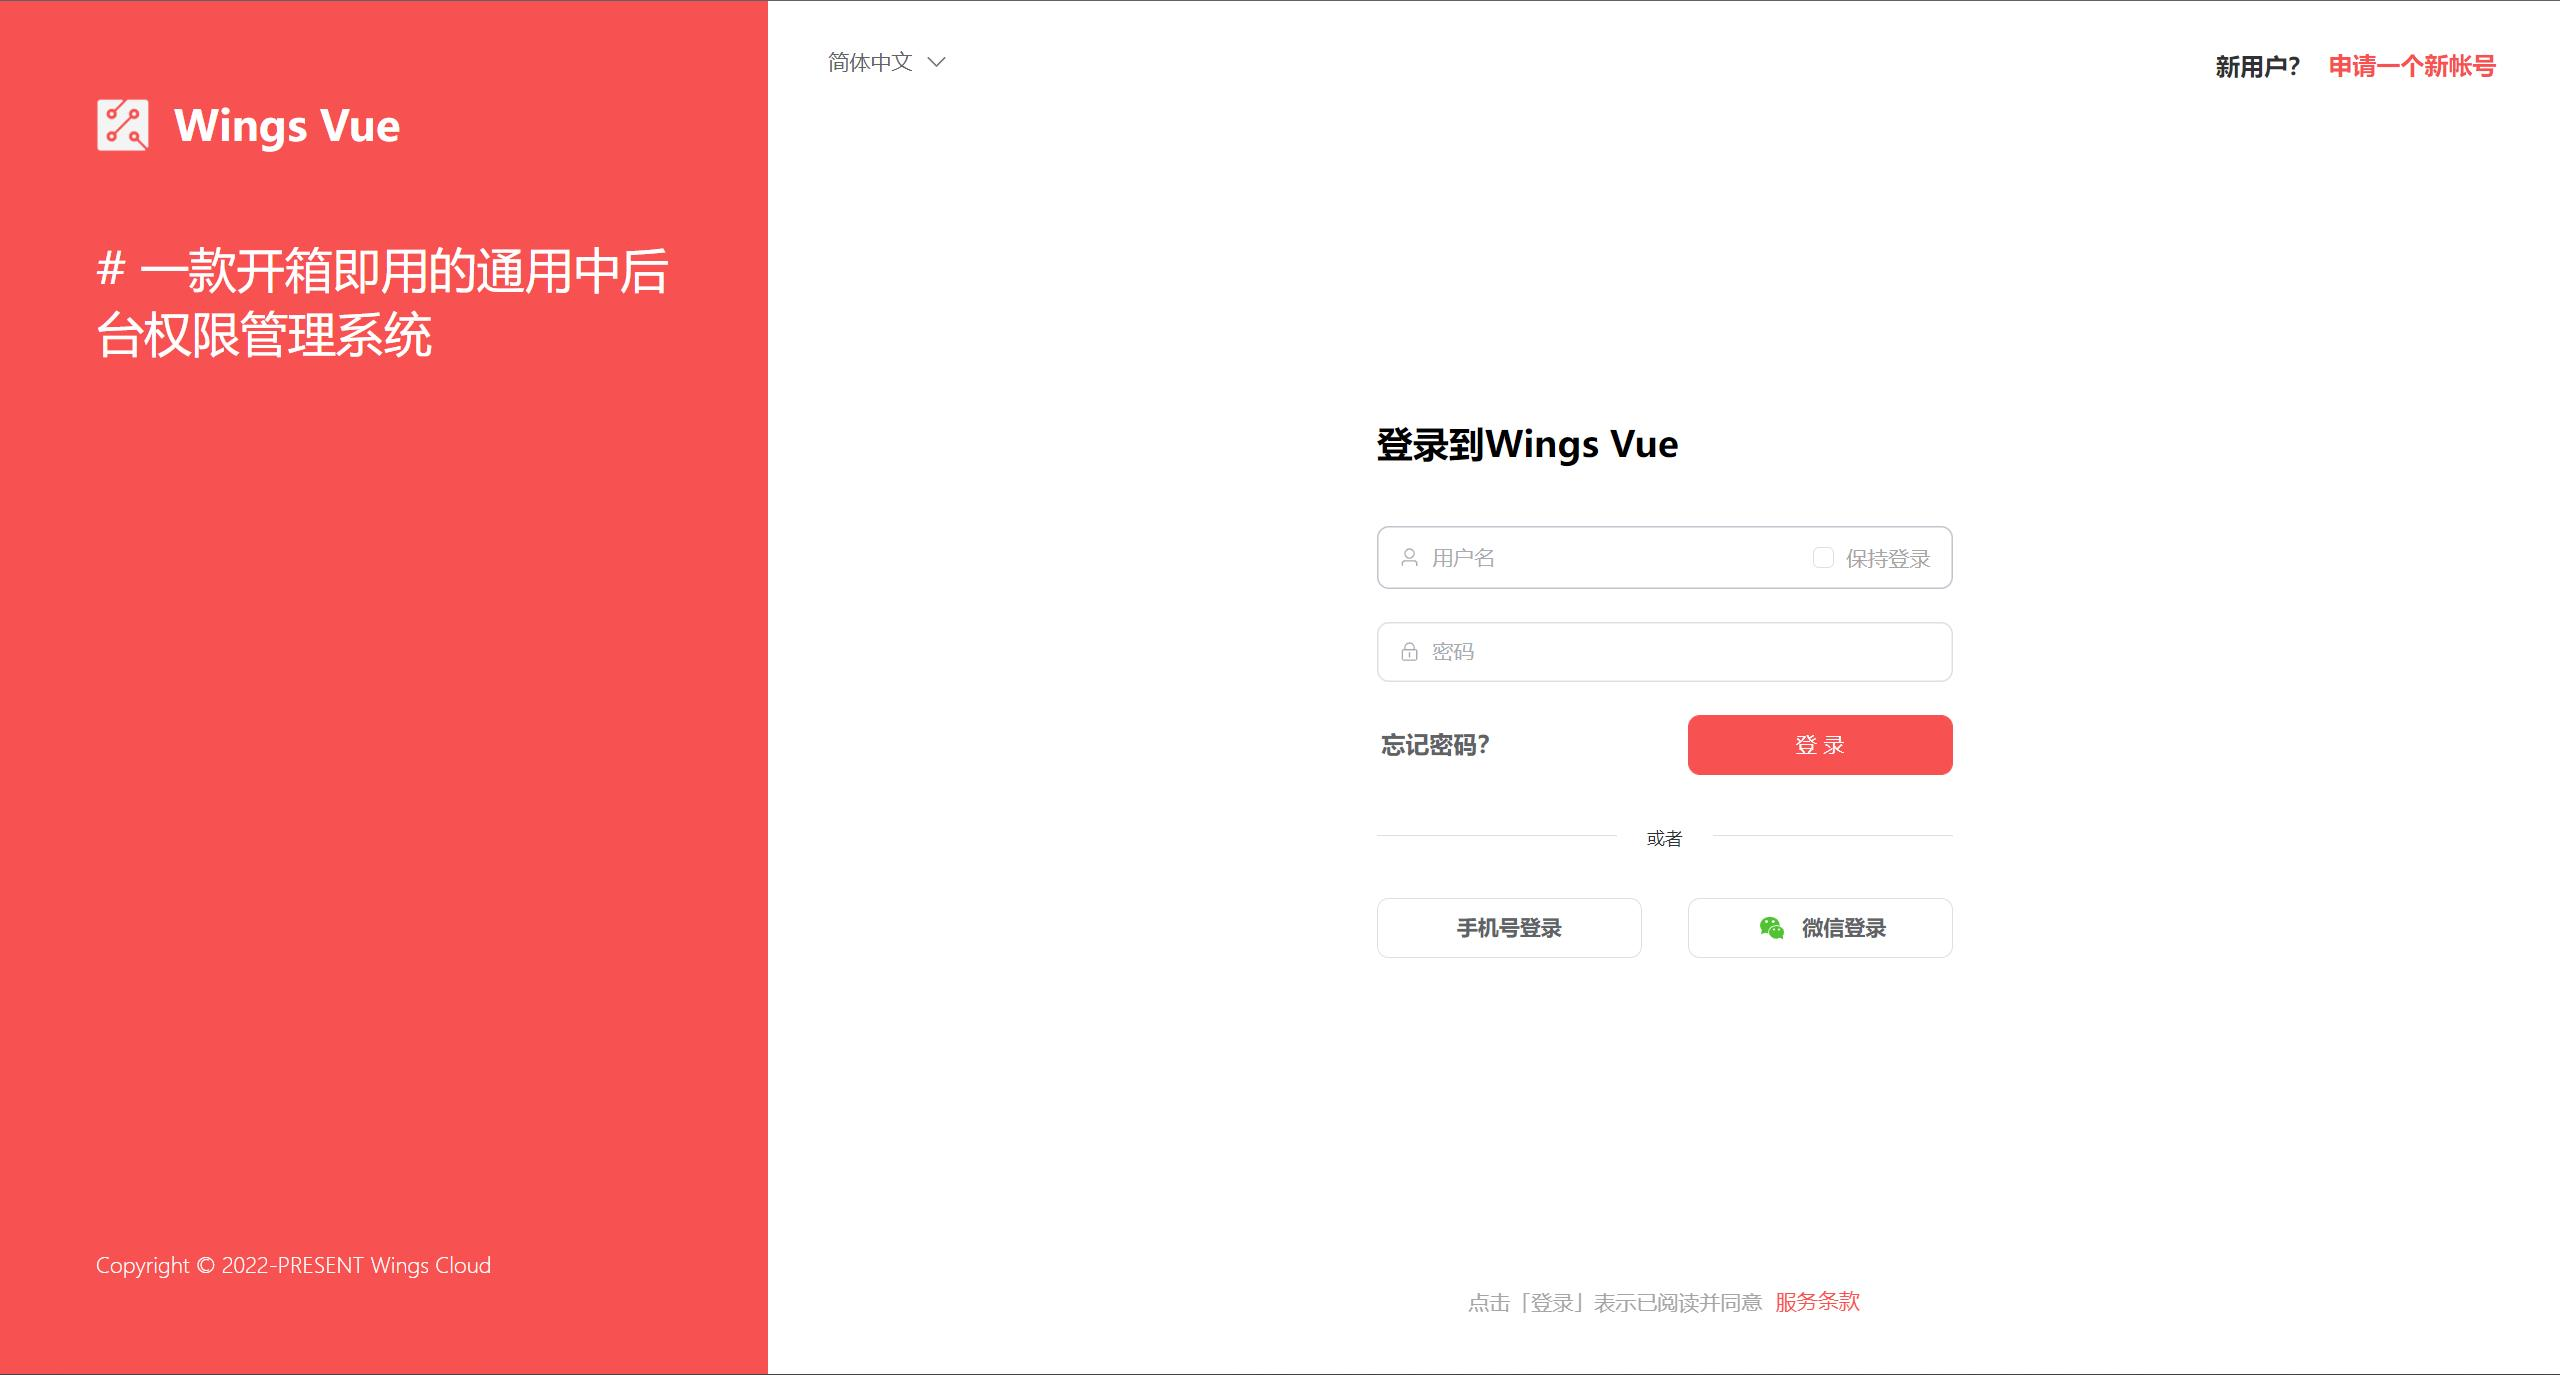
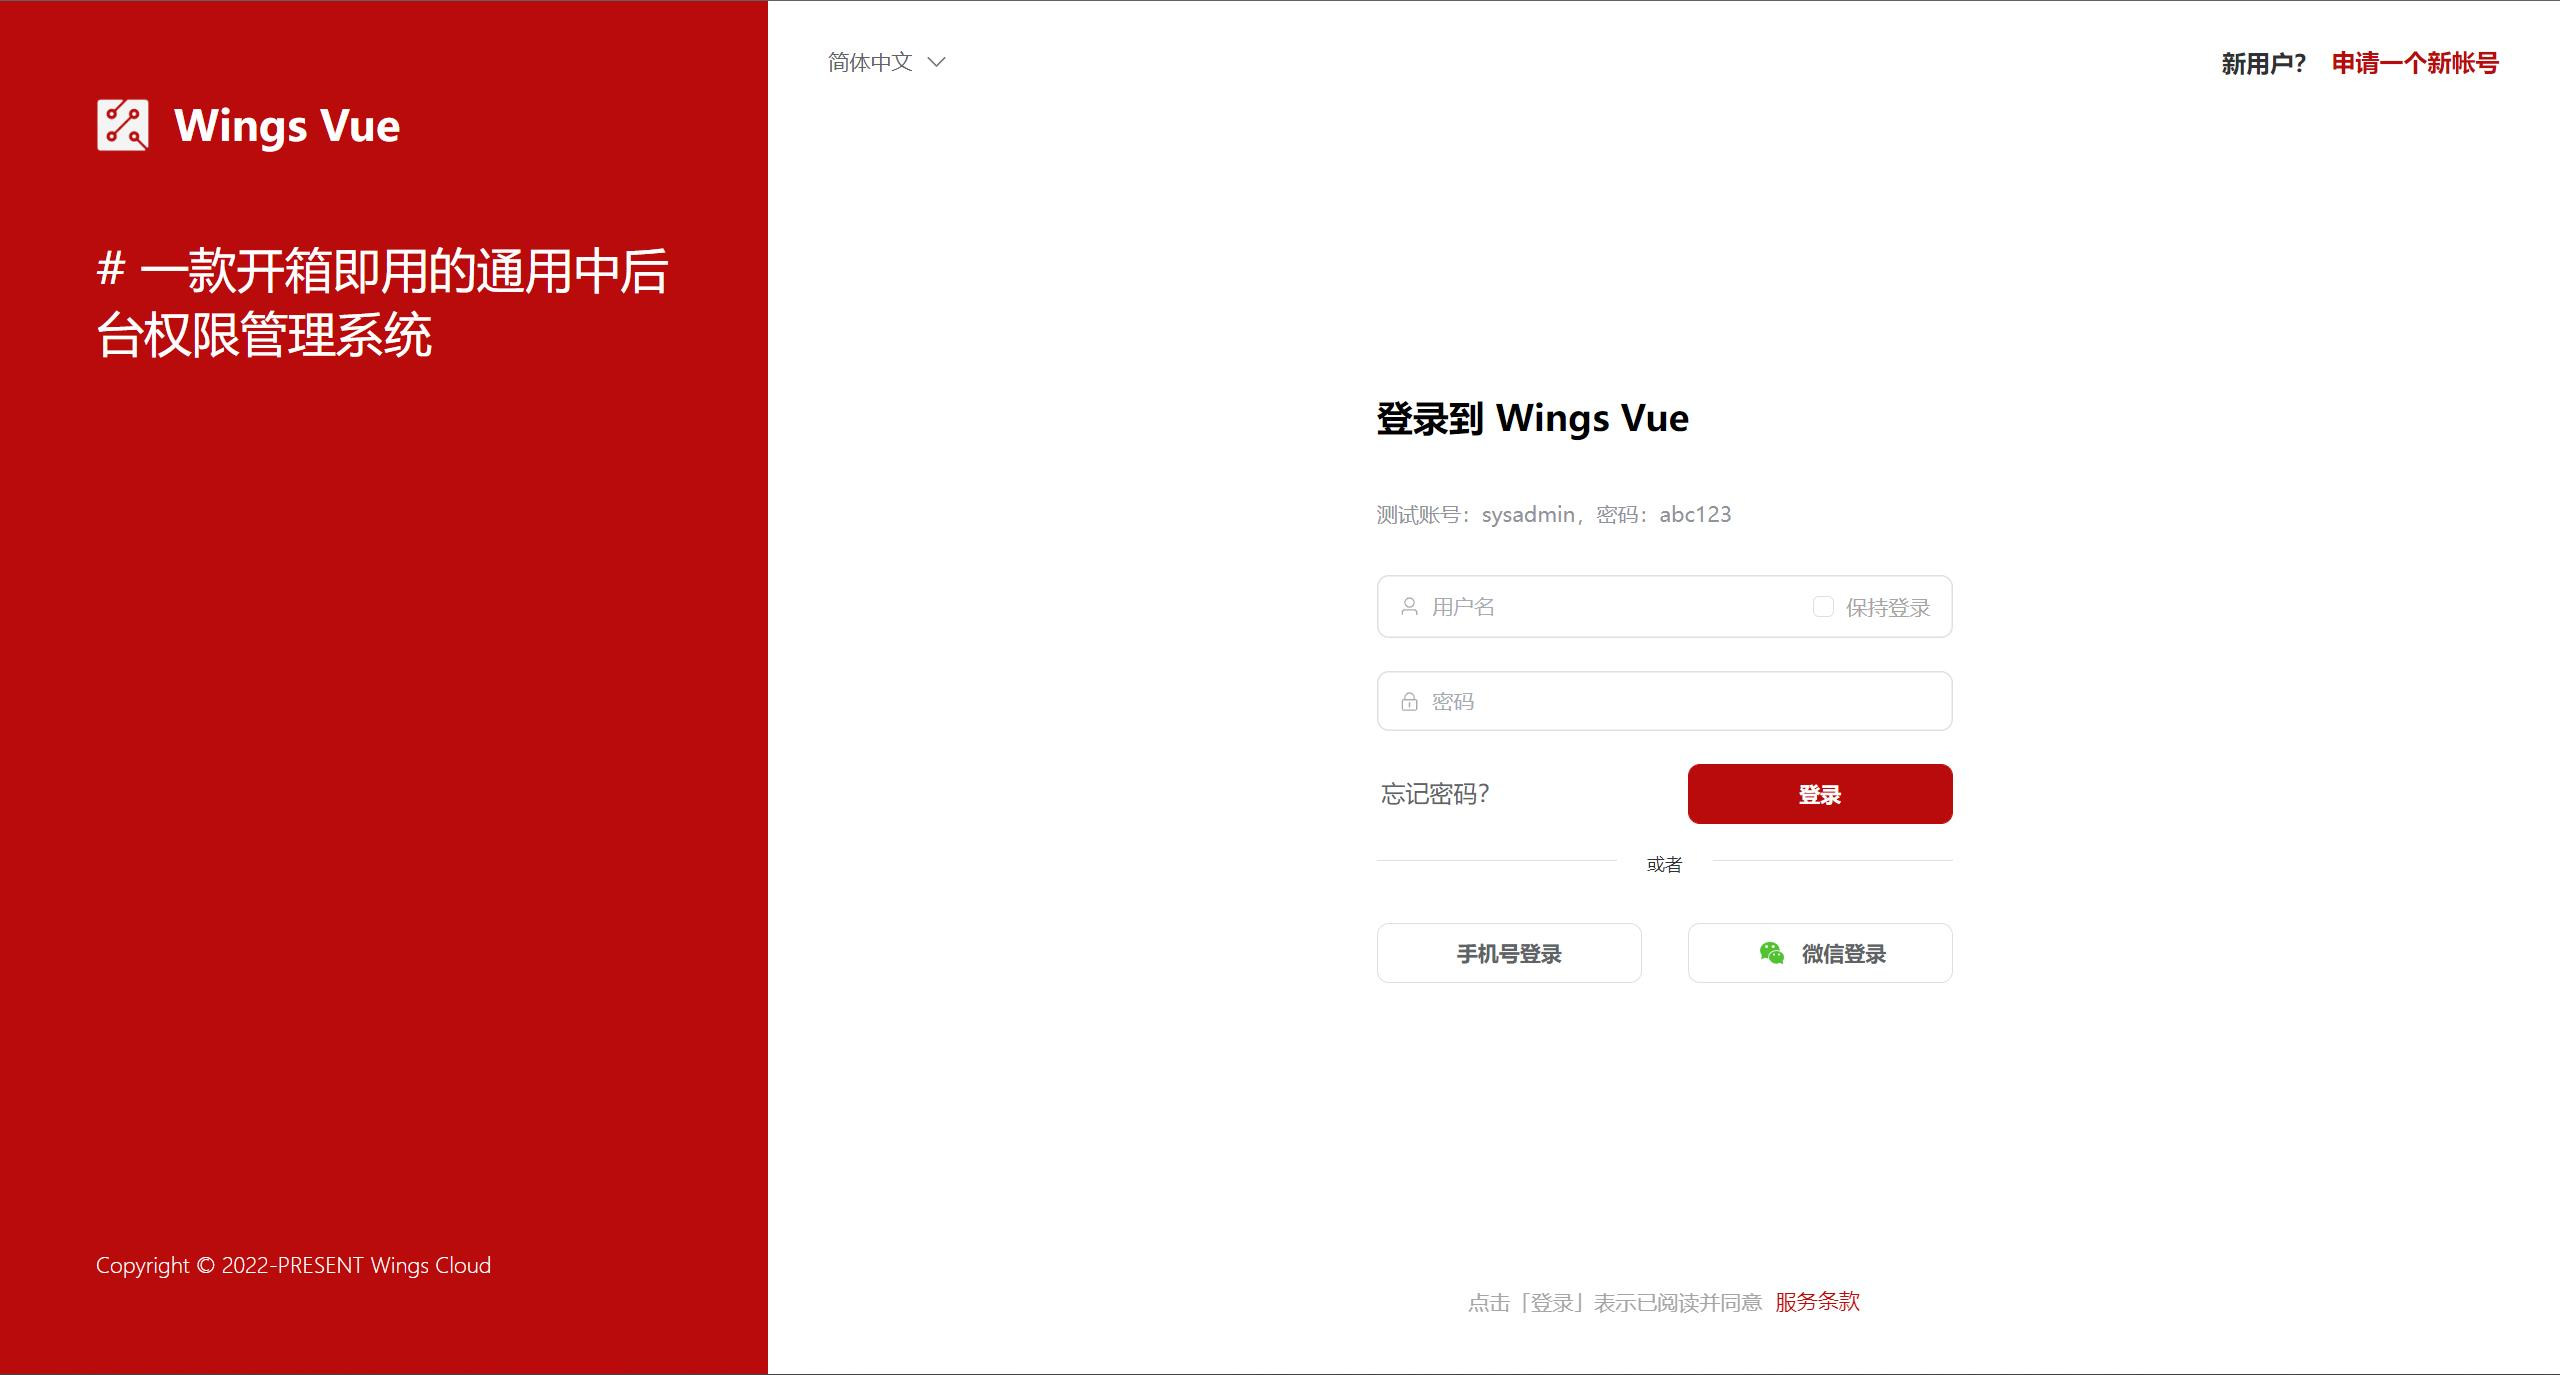
bug fixes: 修复登录页面样式问题； feat: 新增路由进度条；

diff --git a/src/plugins/vue-router/guard.ts b/src/plugins/vue-router/guard.ts
@@ -4,7 +4,6 @@ import type {
   NavigationGuardNext,
 } from 'vue-router';
 import type { Roles } from '../../hooks/use-store/index.d';
-import { useNProgress } from '@vueuse/integrations/useNProgress';
 import { RouteEnum, StorageEnum } from '../../enums';
 import { useBaseStore } from '../../hooks/use-store/use-base-store';
 import { useRouteStore } from '../../hooks/use-store/use-route-store';
@@ -12,7 +11,10 @@ import { useUserStore } from '../../hooks/use-store/use-user-store';
 import { getStorage } from '../../utils/storage';
 import { getLoginStorageType } from '../../utils/common';
 
-const { isLoading } = useNProgress();
+import { useNProgress } from '@vueuse/integrations/useNProgress';
+import '@/assets/styles/nprogress.scss';
+
+const { isLoading, progress } = useNProgress();
 
 /**
  * @name addRouterGuard
@@ -27,8 +29,9 @@ export const addRouterGuard = (router: Router): Router => {
       from: RouteLocationNormalized,
       next: NavigationGuardNext
     ) => {
+      console.log(progress);
       isLoading.value = true;
-
+      console.log(progress);
       // 获取权限数据
       const userRoles: Roles = getStorage(StorageEnum.USER_ROLES, {
         type: getLoginStorageType(),
@@ -96,6 +99,7 @@ export const addRouterGuard = (router: Router): Router => {
   // 后置拦截
   router.afterEach(
     (to: RouteLocationNormalized, from: RouteLocationNormalized) => {
+      console.log(progress);
       isLoading.value = false;
 
       // 设置浏览器标题

diff --git a/src/assets/styles/nprogress.scss b/src/assets/styles/nprogress.scss
@@ -1,0 +1,72 @@
+#nprogress {
+  pointer-events: none;
+
+  .bar {
+    position: fixed;
+    z-index: 1031;
+    top: 0;
+    left: 0;
+    width: 100%;
+    height: 2px;
+    background: var(--el-color-primary);
+  }
+
+  .peg {
+    display: block;
+    position: absolute;
+    right: 0;
+    width: 100px;
+    height: 100%;
+    opacity: 1;
+    transform: rotate(3deg) translate(0, -4px);
+    box-shadow: 0 0 10pxvar (--el-color-primary),
+      0 0 5pxvar (--el-color-primary);
+  }
+
+  .spinner {
+    display: block;
+    position: fixed;
+    z-index: 1031;
+    top: 11px;
+    right: 14px;
+
+    .spinner-icon {
+      width: 18px;
+      height: 18px;
+      box-sizing: border-box;
+      border: solid 2px transparent;
+      border-radius: 50%;
+      animation: nprogress-spinner 400ms linear infinite;
+      border-top-color: var(--el-color-primary);
+      border-left-color: var(--el-color-primary);
+    }
+  }
+}
+
+.nprogress-custom-parent {
+  overflow: hidden;
+  position: relative;
+
+  #nprogress .spinner,
+  #nprogress .bar {
+    position: absolute;
+  }
+}
+
+@keyframes nprogress-spinner {
+  0% {
+    transform: rotate(0deg);
+  }
+  100% {
+    transform: rotate(360deg);
+  }
+}
+
+@keyframes nprogress-spinner {
+  0% {
+    transform: rotate(0deg);
+  }
+  100% {
+    transform: rotate(360deg);
+  }
+}

diff --git a/src/pages/components/sign-template.vue b/src/pages/components/sign-template.vue
@@ -8,32 +8,20 @@ const { baseStore } = useStore();
 <template>
   <div>
     <div w-screen h-screen overflow-hidden v-if="baseStore.isMobile">
-      <div w-full h-full box-border p-x-6 relative>
-        <div absolute top-8 left-6>
+      <div w-full h-full box-border p-6 flex flex-wrap content-between>
+        <div w-full flex items-center justify-between>
           <layout-toolbar-language></layout-toolbar-language>
-        </div>
-        <div absolute top-8 right-6>
           <slot name="top-right"></slot>
         </div>
-        <div
-          w-full
-          h-full
-          flex
-          flex-wrap
-          items-center
-          justify-center
-          content-center
-        >
-          <div w-full m-b-8>
+        <div w-full flex flex-wrap items-center content-center box-border>
+          <div w-full p-b-8>
             <slot name="title"></slot>
           </div>
           <div w-full>
             <slot name="form"></slot>
           </div>
         </div>
-        <div w-full absolute bottom-8 right="50%" translate-x="50%">
-          <slot name="bottom-center"></slot>
-        </div>
+        <slot name="bottom-center"></slot>
       </div>
     </div>
     <div v-else w-screen h-screen flex items-center justify-between>

diff --git a/src/pages/components/terms-conditions.vue b/src/pages/components/terms-conditions.vue
@@ -24,20 +24,12 @@ const openDialog = (): void => {
 </script>
 
 <template>
-  <div
-    w="100%"
-    box-border
-    py-2
-    flex
-    justify-center
-    items-center
-    style="font-size: 14px"
-  >
-    <span pr-2 style="color: var(--el-color-info-light-3)">{{
+  <div w="100%" box-border py-2 flex flex-wrap justify-center items-center>
+    <span pr-2 style="color: var(--el-color-info-light-3); font-size: 14px">{{
       t('signin.readAndAgree', { label: props.label })
     }}</span>
     <el-button important="p-0" link type="primary" @click="openDialog()">
-      <span>{{ t('signin.termsConditions') }}</span>
+      <span style="font-size: 14px">{{ t('signin.termsConditions') }}</span>
     </el-button>
   </div>
   <crud-dialog v-model="dialogVisible" :title="t('signin.termsConditions')">

diff --git a/src/views/personal/profile.vue b/src/views/personal/profile.vue
@@ -40,7 +40,7 @@ const width = ref('width:240px');
           :placeholder="t('crud.phone.phone')"
         ></el-input>
       </el-form-item>
-      <el-form-item :label="t('personal.settings.defaultRole')">
+      <el-form-item :label="t('personal.profile.defaultRole')">
         <el-select :style="[width]" v-model="userStore.userProfile.defaultRole">
           <el-option
             v-for="(item, index) in userStore.userProfile.roleList"

diff --git a/src/pages/signup.vue b/src/pages/signup.vue
@@ -26,7 +26,7 @@ const goSignin = (): void => {
           {{ t('signup.have') }}
         </span>
         <el-button
-          impotant="text-4 p-0 font-600 "
+          important="text-4 p-0 font-600"
           link
           type="primary"
           @click="goSignin()"

diff --git a/README.md b/README.md
@@ -42,6 +42,18 @@
         <td><img width="100%" src="./.readme/signin.jpg"></td>
         <td><img width="100%" src="./.readme/signup.jpg"></td>
     </tr>
+    <tr>
+        <td><img width="100%" src="./.readme/layout.jpg"></td>
+        <td><img width="100%" src="./.readme/layout-aside.jpg"></td>
+    </tr>
+    <tr>
+        <td><img width="100%" src="./.readme/theme.jpg"></td>
+        <td><img width="100%" src="./.readme/dark.jpg"></td>
+    </tr>
+    <tr>
+        <td><img width="100%" src="./.readme/square.jpg"></td>
+        <td><img width="100%" src="./.readme/round.jpg"></td>
+    </tr>
 </table>
 
 ### 📥 快速上手
